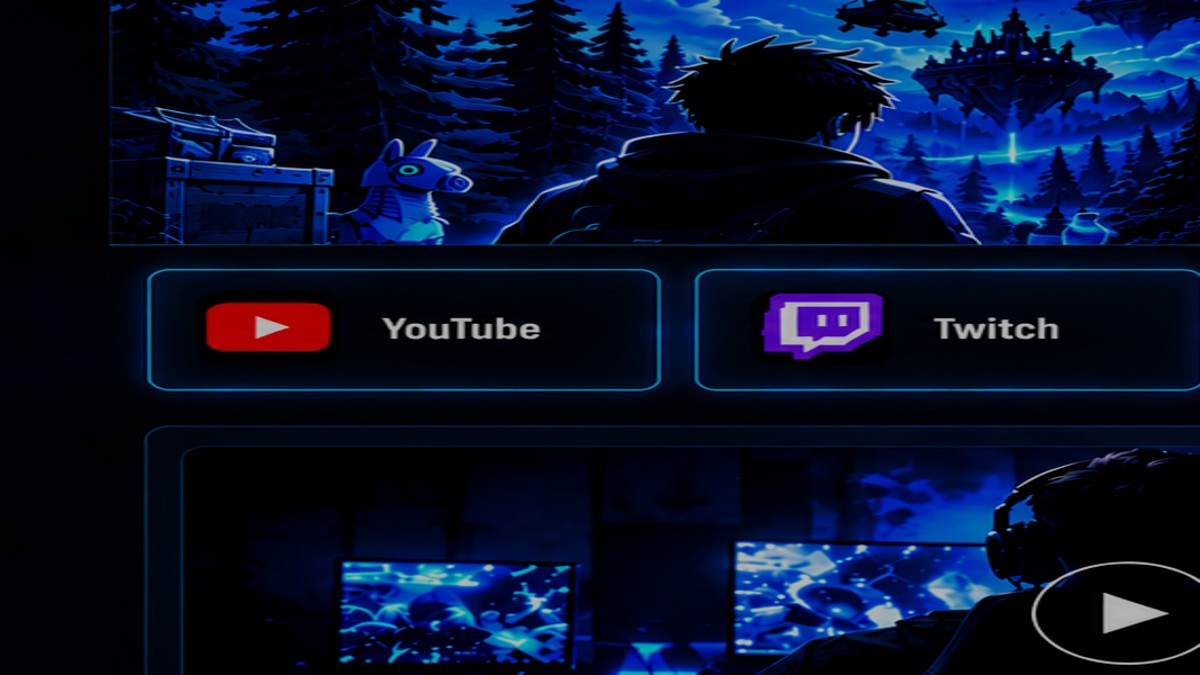
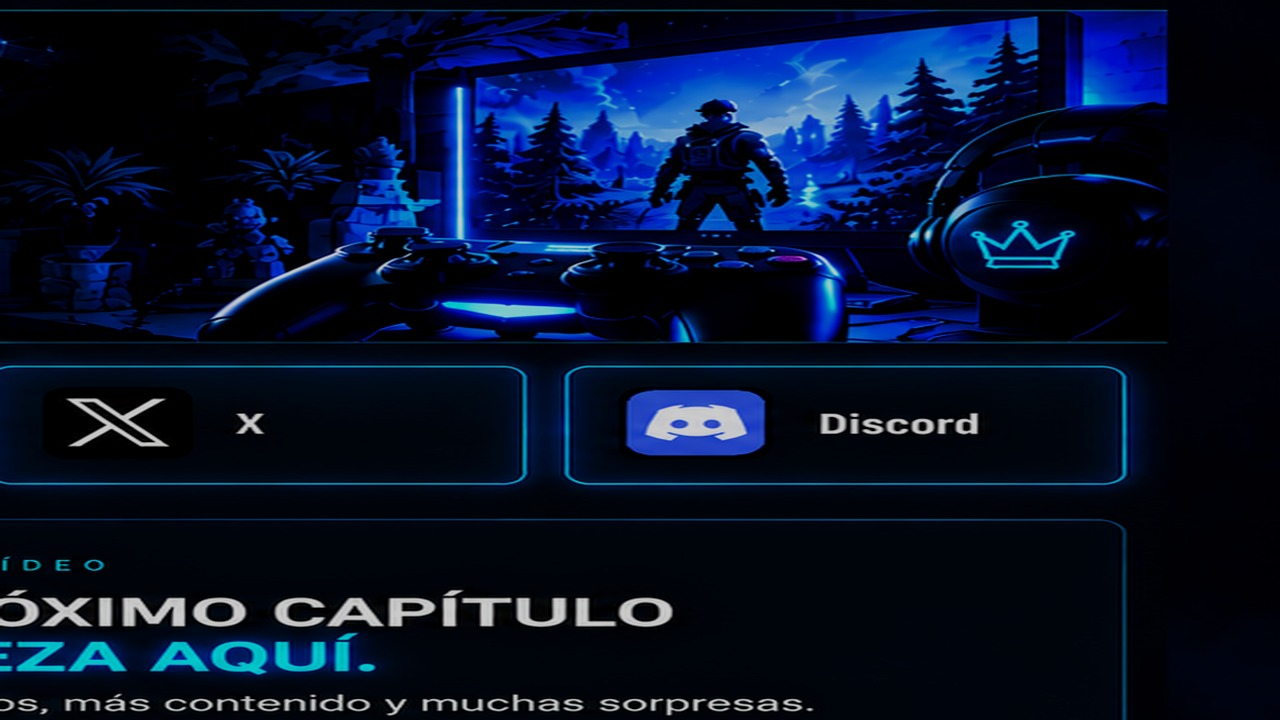
Add files via upload

diff --git a/style.css b/style.css
@@ -1,5 +1,19 @@
 
-:root{--blue:#12aaff;--line:#0879b9;--bg:#010711;--panel:#03101e;--muted:#9bb2c7}
-*{box-sizing:border-box}html{background:var(--bg);scroll-behavior:smooth}body{margin:0;background:radial-gradient(circle at 50% 15%,#06203a 0,#010711 42%,#00040a 100%);color:#fff;font-family:Arial,Helvetica,sans-serif}.page{max-width:1720px;margin:auto;padding:28px 4% 24px}.hero{height:310px;overflow:hidden;border:1px solid #086ea8;background:#000;box-shadow:0 0 22px #008cff22}.hero img{display:block;width:100%;height:100%;object-fit:cover;object-position:center 47%}.socials{display:grid;grid-template-columns:repeat(6,1fr);gap:16px;margin:22px 12px 34px}.social{height:102px;border:2px solid #078ed7;border-radius:10px;background:linear-gradient(145deg,#07172a,#020914);display:flex;align-items:center;justify-content:center;gap:18px;box-shadow:0 0 16px #009dff44,inset 0 0 20px #008cff0d;color:#fff;text-decoration:none;transition:.2s}.social:hover{transform:translateY(-3px);border-color:#2bc0ff;box-shadow:0 0 24px #009dff77}.badge{width:52px;height:52px;border-radius:11px;display:grid;place-items:center;font-size:27px;font-weight:900;background:#06101b}.social strong{font-size:19px}.youtube .badge{background:#e10c19}.twitch .badge{color:#b06cff;background:#2b0758}.tiktok .badge{text-shadow:3px 1px #00e9ee,-3px -1px #ff0050}.instagram .badge{background:linear-gradient(135deg,#6a2cff,#ff1678,#ffb12b)}.xnet .badge{font-size:32px}.discord .badge{background:#536cf2}.featured{border:1px solid #087ebc;border-radius:12px;background:linear-gradient(135deg,#031222,#010914);padding:17px;display:grid;grid-template-columns:1.35fr .95fr;gap:50px;align-items:center;box-shadow:inset 0 0 50px #0065a211}.video-card{height:300px;position:relative;overflow:hidden;border:1px solid #0b79b1;border-radius:9px;background:#020914}.video-card img{width:100%;height:100%;object-fit:cover;filter:saturate(1.25)}.video-card:after{content:"";position:absolute;inset:0;background:linear-gradient(90deg,#00102422,#003b7822)}.play{position:absolute;z-index:2;left:50%;top:50%;transform:translate(-50%,-50%);width:76px;height:76px;border:2px solid white;border-radius:50%;display:grid;place-items:center;background:#000a;font-size:27px;padding-left:5px}.featured-copy{padding-right:7%}.kicker{color:#25c5ff;letter-spacing:.35em;font-size:12px;font-weight:700}.featured h1{font-size:clamp(31px,3vw,48px);line-height:1.05;margin:14px 0 28px}.featured h1 em{font-style:normal;color:#16baff;text-shadow:0 0 14px #008cff}.youtube-button{display:inline-flex;align-items:center;gap:14px;border:2px solid #16afff;border-radius:8px;padding:15px 24px;color:#fff;text-decoration:none;font-weight:900;box-shadow:0 0 16px #008cffaa,inset 0 0 14px #008cff22}.youtube-button b{color:#2fc3ff;font-size:20px}footer{padding:44px 0 5px;text-align:center;border-bottom:0}.legacy{display:flex;align-items:center;justify-content:center;gap:28px;font-size:10px;letter-spacing:.36em;color:#e8f5ff}.legacy span{width:48px;height:2px;background:#15baff}footer small{display:block;margin-top:15px;color:#a9b9c8;font-size:11px}.pending{cursor:default}
-@media(max-width:1100px){.page{padding-left:2.5%;padding-right:2.5%}.hero{height:250px}.socials{grid-template-columns:repeat(3,1fr)}.featured{grid-template-columns:1fr;gap:25px}.featured-copy{text-align:center;padding:5px 0 20px}}
-@media(max-width:650px){.page{padding:10px 10px 18px}.hero{height:155px}.hero img{object-position:center}.socials{grid-template-columns:repeat(2,1fr);gap:9px;margin:12px 0 20px}.social{height:76px;gap:10px}.badge{width:38px;height:38px;font-size:20px}.social strong{font-size:14px}.featured{padding:9px}.video-card{height:190px}.featured h1{font-size:28px}.youtube-button{padding:13px 17px}.legacy{gap:10px;font-size:7px;letter-spacing:.22em}.legacy span{width:20px}}
+:root{--blue:#13adff;--bg:#010711;--panel:#03111f;--line:#0879b9}
+*{box-sizing:border-box}html,body{margin:0;background:#010711;color:#fff;font-family:Arial,Helvetica,sans-serif}body{background:radial-gradient(circle at 50% 0,#061c32,#010711 42%,#00040a)}
+main{width:min(1540px,94vw);margin:0 auto;padding:22px 0 18px}
+.banner{width:100%;aspect-ratio:1920/560;max-height:365px;min-height:230px;overflow:hidden;border:1px solid #0876b3;background:#000}
+.banner img{width:100%;height:100%;display:block;object-fit:cover;object-position:center center}
+.social-row{display:grid;grid-template-columns:repeat(6,1fr);gap:14px;padding:18px 12px 28px}
+.social{height:88px;display:flex;align-items:center;justify-content:center;gap:14px;border:1.5px solid #0798e7;border-radius:9px;background:linear-gradient(145deg,#071729,#020914);box-shadow:0 0 13px #009cff44,inset 0 0 18px #008cff0b;color:white;text-decoration:none;transition:.18s}
+.social:hover{transform:translateY(-2px);box-shadow:0 0 20px #009cff77}
+.social b{font-size:17px}.icon{width:45px;height:45px;display:grid;place-items:center;border-radius:10px;font-size:25px;font-weight:900;background:#050a11}
+.youtube .icon{background:#ef101d}.youtube svg{width:28px;fill:#fff}.youtube svg .cut{fill:#ef101d}
+.twitchmark{background:#45108a;color:#b46cff}.tiktokmark{font-size:29px;text-shadow:2px 1px #00edf2,-2px -1px #ff0050}.instagrammark{font-size:30px;background:linear-gradient(135deg,#6b2cff,#f5168e,#ffb029)}.xmark{font-size:29px}.discordmark{background:#536cf0;font-size:22px}
+.featured{display:grid;grid-template-columns:1.3fr .9fr;gap:42px;align-items:center;padding:16px;border:1px solid #0878b5;border-radius:11px;background:linear-gradient(135deg,#03111f,#010914);box-shadow:inset 0 0 45px #006aa211}
+.video{height:285px;position:relative;overflow:hidden;border:1px solid #0878b5;border-radius:8px;background:#020812}.video img{width:100%;height:100%;object-fit:cover;display:block;filter:saturate(1.2)}.video:after{content:"";position:absolute;inset:0;background:linear-gradient(90deg,#00112522,#004d8b18)}
+.play{position:absolute;z-index:2;left:50%;top:50%;transform:translate(-50%,-50%);width:68px;height:68px;border:2px solid white;border-radius:50%;display:grid;place-items:center;background:#000b;padding-left:4px;font-size:24px}
+.copy{padding-right:6%}.eyebrow{font-size:11px;letter-spacing:.34em;color:#20c2ff;font-weight:800}.copy h1{font-size:clamp(30px,3vw,46px);line-height:1.05;margin:13px 0 26px}.copy h1 em{font-style:normal;color:#18b8ff;text-shadow:0 0 13px #008cff}.watch{display:inline-flex;align-items:center;padding:14px 21px;border:2px solid #16adff;border-radius:7px;box-shadow:0 0 14px #008cffaa,inset 0 0 13px #008cff22;color:#fff;text-decoration:none;font-size:13px;font-weight:900}.watch strong{margin-left:18px;color:#2fc2ff;font-size:19px}
+footer{text-align:center;padding:34px 0 4px}.tag{display:flex;align-items:center;justify-content:center;gap:22px;font-size:9px;letter-spacing:.34em}.tag i{display:block;width:45px;height:2px;background:#13adff}footer small{display:block;margin-top:12px;color:#9eb2c4;font-size:10px}
+@media(max-width:1000px){main{width:96vw}.banner{min-height:180px}.social-row{grid-template-columns:repeat(3,1fr)}.featured{grid-template-columns:1fr;gap:22px}.copy{text-align:center;padding:4px 0 18px}}
+@media(max-width:600px){main{width:100%;padding:0 9px 15px}.banner{aspect-ratio:16/5.4;min-height:0;border-left:0;border-right:0}.social-row{grid-template-columns:repeat(2,1fr);gap:8px;padding:11px 2px 18px}.social{height:70px;gap:9px}.icon{width:37px;height:37px;font-size:20px}.social b{font-size:13px}.featured{padding:8px}.video{height:190px}.copy h1{font-size:27px}.tag{gap:8px;font-size:6.5px;letter-spacing:.2em}.tag i{width:18px}}

diff --git a/index.html b/index.html
@@ -1,42 +1,42 @@
 <!doctype html>
 <html lang="es">
 <head>
-  <meta charset="utf-8">
-  <meta name="viewport" content="width=device-width,initial-scale=1">
-  <meta name="theme-color" content="#020914">
-  <title>KonorTV — Construyendo mi propio legado</title>
-  <meta name="description" content="Página oficial de KonorTV. YouTube, Twitch, TikTok, Instagram, X y Discord.">
-  <link rel="stylesheet" href="style.css">
+<meta charset="utf-8">
+<meta name="viewport" content="width=device-width,initial-scale=1">
+<meta name="theme-color" content="#020812">
+<title>KonorTV — Construyendo mi propio legado</title>
+<meta name="description" content="Página oficial de KonorTV">
+<link rel="stylesheet" href="style.css">
 </head>
 <body>
-<main class="page">
-  <section class="hero" aria-label="KonorTV">
-    <img src="banner-konortv.jpg" alt="Banner oficial de KonorTV">
+<main>
+  <section class="banner">
+    <img src="banner-konortv.jpg" alt="KonorTV">
   </section>
 
-  <section class="socials" aria-label="Redes sociales">
-    <a href="#" class="social youtube pending" data-name="YouTube"><span class="badge">▶</span><strong>YouTube</strong></a>
-    <a href="#" class="social twitch pending" data-name="Twitch"><span class="badge">▣</span><strong>Twitch</strong></a>
-    <a href="#" class="social tiktok pending" data-name="TikTok"><span class="badge">♪</span><strong>TikTok</strong></a>
-    <a href="#" class="social instagram pending" data-name="Instagram"><span class="badge">◎</span><strong>Instagram</strong></a>
-    <a href="#" class="social xnet pending" data-name="X"><span class="badge">𝕏</span><strong>X</strong></a>
-    <a href="#" class="social discord pending" data-name="Discord"><span class="badge">●</span><strong>Discord</strong></a>
+  <section class="social-row" aria-label="Redes sociales">
+    <a href="#" class="social youtube"><span class="icon"><svg viewBox="0 0 24 24"><path d="M23 7s-.2-1.6-.8-2.3c-.8-.9-1.7-.9-2.1-1C17.2 3.5 12 3.5 12 3.5s-5.2 0-8.1.2c-.4.1-1.3.1-2.1 1C1.2 5.4 1 7 1 7S.8 8.9.8 10.8v1.8c0 1.9.2 3.8.2 3.8s.2 1.6.8 2.3c.8.9 1.9.9 2.4 1 1.7.2 7.8.2 7.8.2s5.2 0 8.1-.2c.4-.1 1.3-.1 2.1-1 .6-.7.8-2.3.8-2.3s.2-1.9.2-3.8v-1.8C23.2 8.9 23 7 23 7z"/><path class="cut" d="M9.5 8.3v7.1l6.7-3.6z"/></svg></span><b>YouTube</b></a>
+    <a href="#" class="social twitch"><span class="icon twitchmark">▣</span><b>Twitch</b></a>
+    <a href="#" class="social tiktok"><span class="icon tiktokmark">♪</span><b>TikTok</b></a>
+    <a href="#" class="social instagram"><span class="icon instagrammark">◎</span><b>Instagram</b></a>
+    <a href="#" class="social xnet"><span class="icon xmark">𝕏</span><b>X</b></a>
+    <a href="#" class="social discord"><span class="icon discordmark">☁</span><b>Discord</b></a>
   </section>
 
   <section class="featured">
-    <div class="video-card">
+    <div class="video">
       <img src="ultimo-video.jpg" alt="Último vídeo de KonorTV">
       <span class="play">▶</span>
     </div>
-    <div class="featured-copy">
-      <span class="kicker">ÚLTIMO VÍDEO</span>
+    <div class="copy">
+      <span class="eyebrow">ÚLTIMO VÍDEO</span>
       <h1>EL PRÓXIMO CAPÍTULO<br><em>EMPIEZA AQUÍ.</em></h1>
-      <a href="#" class="youtube-button pending"><span>▶</span> VER EN YOUTUBE <b>→</b></a>
+      <a href="#" class="watch">▶ &nbsp; VER EN YOUTUBE <strong>→</strong></a>
     </div>
   </section>
 
   <footer>
-    <div class="legacy"><span></span>CONSTRUYENDO MI PROPIO LEGADO<span></span></div>
+    <div class="tag"><i></i><span>CONSTRUYENDO MI PROPIO LEGADO</span><i></i></div>
     <small>© 2026 KonorTV</small>
   </footer>
 </main>

diff --git a/script.js b/script.js
@@ -1,5 +1,1 @@
-document.querySelectorAll('.pending').forEach(el=>{
-  el.addEventListener('click',e=>{
-    if(el.getAttribute('href')==='#') e.preventDefault();
-  });
-});
+document.querySelectorAll('a[href="#"]').forEach(a=>a.addEventListener('click',e=>e.preventDefault()));
